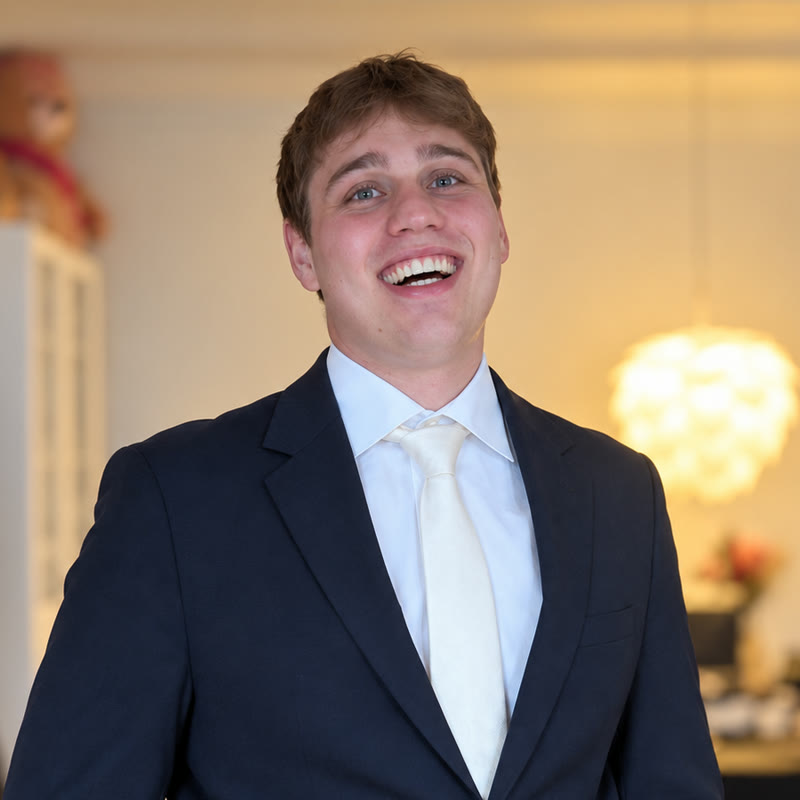
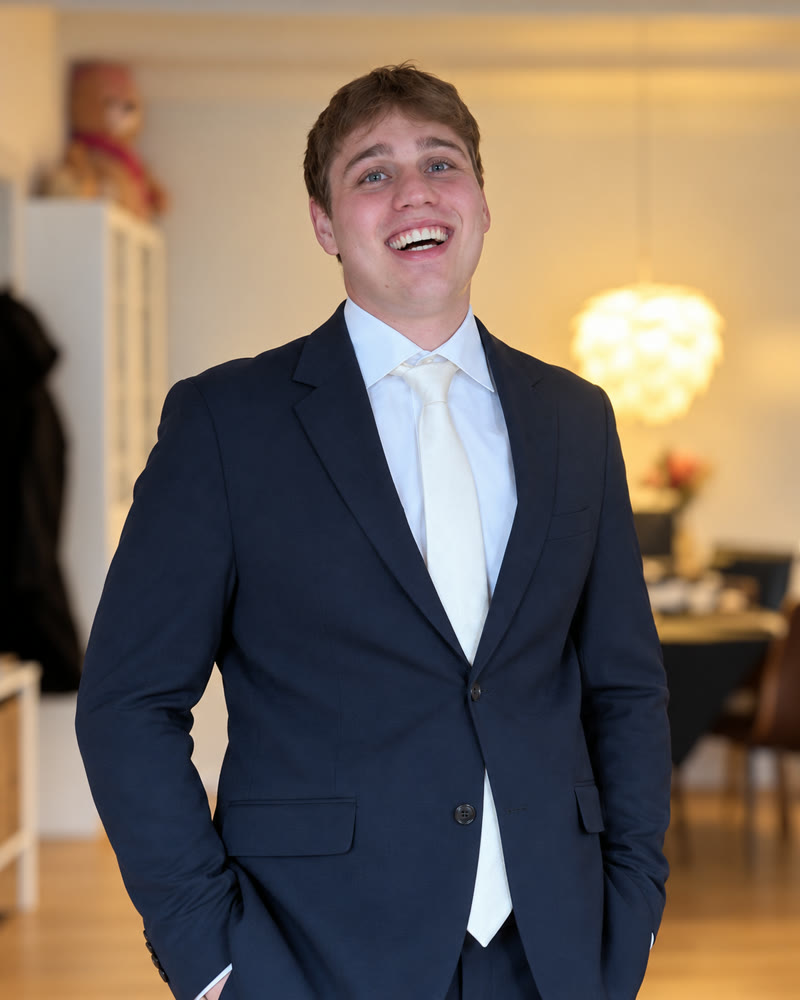
Use the uncropped portrait; photo frame is now 4:5

diff --git a/src/styles/global.css b/src/styles/global.css
@@ -95,7 +95,7 @@ html[data-lang='da'] .lang [data-set='da'] { background: var(--olive); color: #f
 .btn svg { width: 16px; height: 16px; }
 
 .photo-frame {
-  width: 200px; aspect-ratio: 1; border-radius: var(--radius); overflow: hidden;
+  width: 200px; aspect-ratio: 4 / 5; border-radius: var(--radius); overflow: hidden;
   background: var(--bg-soft); box-shadow: 0 1px 0 var(--line), 0 20px 40px -24px rgba(43, 38, 32, 0.35);
   justify-self: start;
 }

diff --git a/README.md b/README.md
@@ -58,10 +58,8 @@ Typical edits:
 
 ### Adding your photo
 
-Put a square-ish JPEG at **`public/photo.jpg`** (overwrite the beige
-placeholder that is there now). Keep the exact file name. Nothing else needs
-to change; the site crops it to a square with `object-fit: cover`.
-Around 800×800 px is plenty.
+Put a JPEG at **`public/photo.jpg`**, keeping the exact file name. Nothing
+else needs to change. The frame is 4:5 portrait; around 800×1000 px is plenty.
 
 ### Updating the Word CVs
 
